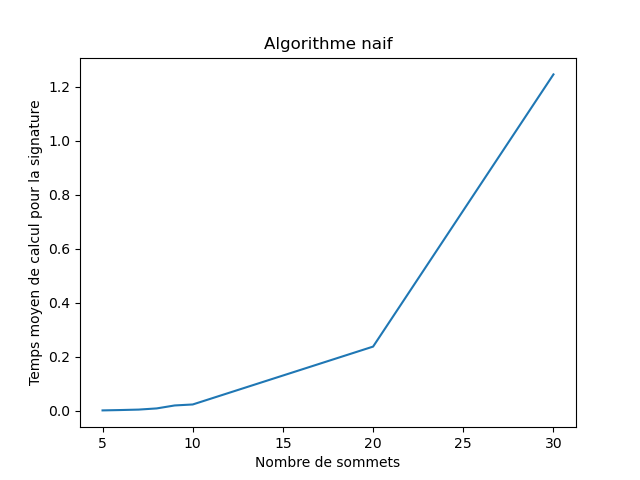
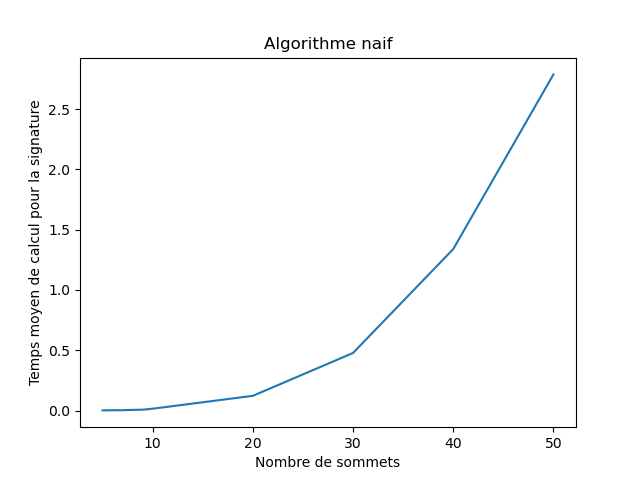
à jour

diff --git a/src/complexite.py b/src/complexite.py
@@ -30,16 +30,18 @@ def TempsSignatureAlgoNaif():
     for fichier in fichiers:
         graph = ReadGraph(fichier)
         measures = []
-        # on calcule le temps que met l'algo naif pour faire une signature 
-        start = time.time()
-        Signature(graph)
-        end = time.time()
+        taille = len(graph)
+        if taille <= 50 :
+            # on calcule le temps que met l'algo naif pour faire une signature 
+            start = time.time()
+            Signature(graph)
+            end = time.time()
 
-        measures = (end - start)
-        if len(graph) in res:
-            res[len(graph)].append(measures)
-        else:
-            res[len(graph)] = [measures]
+            measures = (end - start)
+            if taille in res:
+                res[taille].append(measures)
+            else:
+                res[taille] = [measures]
     
     #on calcule maintenant les moyennes
     for key in res:
@@ -58,61 +60,14 @@ def AffichageAlgoNaif():
     data = TempsSignatureAlgoNaif().items()
     print(data)
     x, y1 = zip(*data)
+    # refaire cette droite
     y2 = [((i/x[0])**2)*y1[0] for i in x]
     plt.plot(x, y1)
-    plt.plot(x, y2)
+    #plt.plot(x, y2)
     plt.xlabel("Nombre de sommets")
     plt.ylabel("Temps moyen de calcul pour la signature")
     plt.title("Algorithme naif")
     plt.show()
 
 
-def TempsSignatureAlgoNaifARETES():
-    """
-    Fonction qui retourne dans un dictionnaire le temps moyen de calcul de la signature en fonction du nombre de sommets
-    """
-
-    fichiers = Repertoire("FichierTests")
-    
-    # pour chaque fichier, on note le nombre de sommets avec le temps d'éxécution associé
-    res = {}
-    for fichier in fichiers:
-        graph = ReadGraph(fichier)
-        measures = []
-        # on calcule le temps que met l'algo naif pour faire une signature 
-        start = time.time()
-        Signature(graph)
-        end = time.time()
-
-        measures = (end - start)
-        if len(Edges(graph)) in res:
-            res[len(Edges(graph))].append(measures)
-        else:
-            res[len(Edges(graph))] = [measures]
-    
-    #on calcule maintenant les moyennes
-    for key in res:
-       res[key] = statistics.mean(res[key])
-    
-    #ecart_type = statistics.stdev(measures)
-
-    return {key:res[key] for key in sorted(res)}
-
-
-def AffichageAlgoNaifARETES():
-    """
-    Fonction qui permet d'afficher le temps de calcul signature algo naif en fontion du nombre d'aretes'
-    """
-    
-    data = TempsSignatureAlgoNaifARETES().items()
-    print(data)
-    x, y1 = zip(*data)
-    plt.plot(x, y1)
-    plt.xlabel("Nombre d'aretes")
-    plt.ylabel("Temps moyen de calcul pour la signature")
-    plt.title("Algorithme naif")
-    plt.show()
-
-
-#AffichageAlgoNaif()
-#AffichageAlgoNaifARETES()
+AffichageAlgoNaif()

diff --git a/src/Version_naive.py b/src/Version_naive.py
@@ -35,22 +35,22 @@ def ParcoursProfondeurRecursifSurAretes2(graph, edge, visited):
     """
 
     #on liste toutes les arêtes du graphe
-    edges = Edges(graph)
+    #edges = Edges(graph)
     #on ajoute l'arête à la liste des arêtes visitées
     visited.append(edge)
 
     # si l'arête est dans le graphe (vérification)
-    if edge in edges:
+    #if edge in edges:
 
-        # regarder pour chaque voisin de la tête de l'arête, edge[1], si l'arête les reliant a été traité et si non la traiter
-        # on regarde les voisins et on les prends dans l'ordre à droite de celle d'où l'on vient
-        voisins = graph[edge[1]-1]
-        indice = voisins.index(edge[0])
-        regarder = voisins[(indice+1):] + voisins[:(indice+1)]
-            
-        for neighbor in regarder:
-            if (edge[1], neighbor) not in visited:
-                ParcoursProfondeurRecursifSurAretes2(graph, (edge[1], neighbor), visited)
+    # regarder pour chaque voisin de la tête de l'arête, edge[1], si l'arête les reliant a été traité et si non la traiter
+    # on regarde les voisins et on les prends dans l'ordre à droite de celle d'où l'on vient
+    voisins = graph[edge[1]-1]
+    indice = voisins.index(edge[0])
+    regarder = voisins[(indice+1):] + voisins[:(indice+1)]
+        
+    for neighbor in regarder:
+        if (edge[1], neighbor) not in visited:
+            ParcoursProfondeurRecursifSurAretes2(graph, (edge[1], neighbor), visited)
 
 def ParcoursAretes(graph, edge_debut):
     """
@@ -59,6 +59,8 @@ def ParcoursAretes(graph, edge_debut):
     Entrée : le graphe sous forme de liste
     Sortie : une liste avec tous les sommets dans l'ordre dans lesquelles on les passe 
     """
+    #on liste toutes les arêtes du graphe
+    #edges = Edges(graph)
     # ensemble des arêtes dans l'ordre dans lesquelles on les a passée, mis à jour avec ParcoursProfondeurRecursif
     visited = list()
     # première instance pour le parcours en profondeur 

diff --git a/src/Utils.py b/src/Utils.py
@@ -294,6 +294,5 @@ def create_isomorphism(filename: str, pos: list = [[1, 3]]) -> list:
 
 ### EXECUTION DE COMMANDES ###
 
-GeneratePlanarCode('FichierTests\graph.150')
-GeneratePlanarCode('FichierTests\graph.200')
-GeneratePlanarCode('FichierTests\graph.220')
+#GeneratePlanarCode('FichierTests\graph.150')
+
